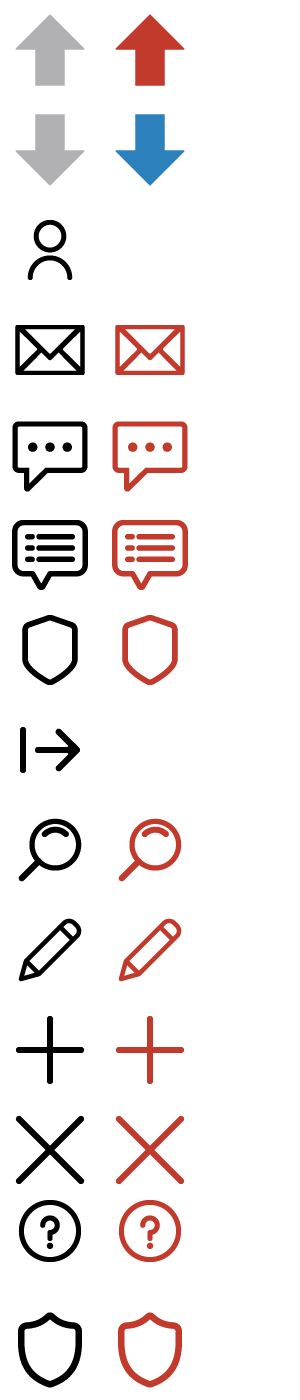
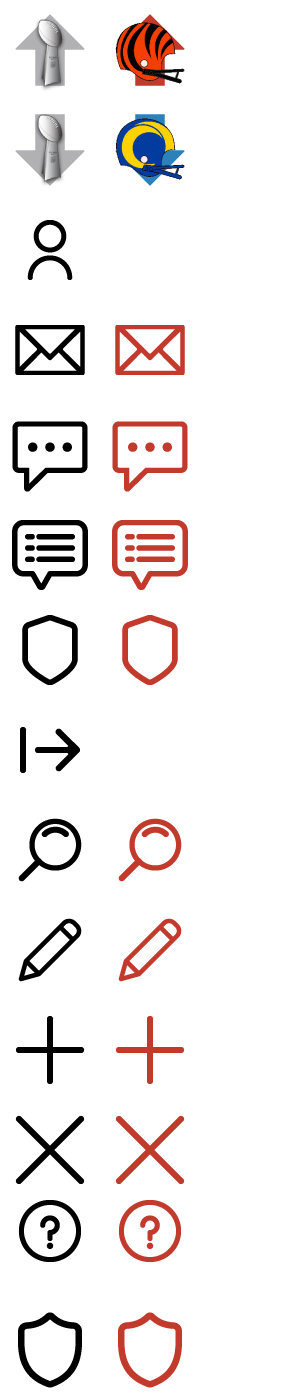
take 2 upvote/downvotes

Changed region(s): [[0.39, 0.0, 0.6, 0.1536], [0.12, 0.0, 0.21, 0.1536]]

diff --git a/src/scss/themes/_superbowl-liv.scss b/src/scss/themes/_superbowl-liv.scss
@@ -28,38 +28,3 @@ body::after {
         background-position: center;
     }
 
-.arrow{
-        display: block;
-        height: 20px;
-        width: 20px;
-        font-size: 0;
-        overflow: hidden;
-        background-image:none;
-        background-size: 100%;
-        transition: opacity .3s ease-out;
-    }
-
-.arrow.up {
-    background: url(%%bengals-helmet%%); 
-    background-position: 0 0 !important;
-    background-size: 50%;
-    }
-
-.arrow.upmod { 
-    background: url(%%Lombardi%%); 
-    background-position: 0 0 !important;
-    background-size: 150%;
-}
-
-.arrow.down {
-    background: url(%%rams-helmet%%); 
-    background-position: 0 0 !important;
-    background-size: 100%;
-}
-
-.arrow.downmod { 
-    background: url(%%Lombardi%%); 
-    background-position: 0 0 !important;
-    }
-    
-}
